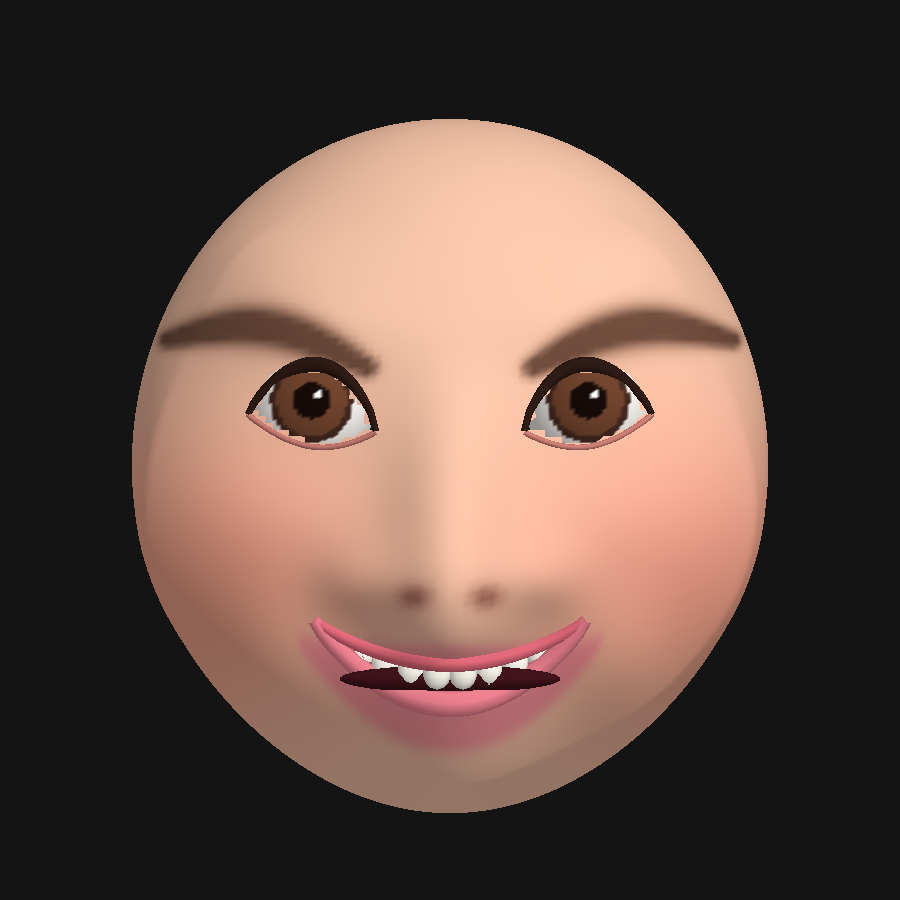
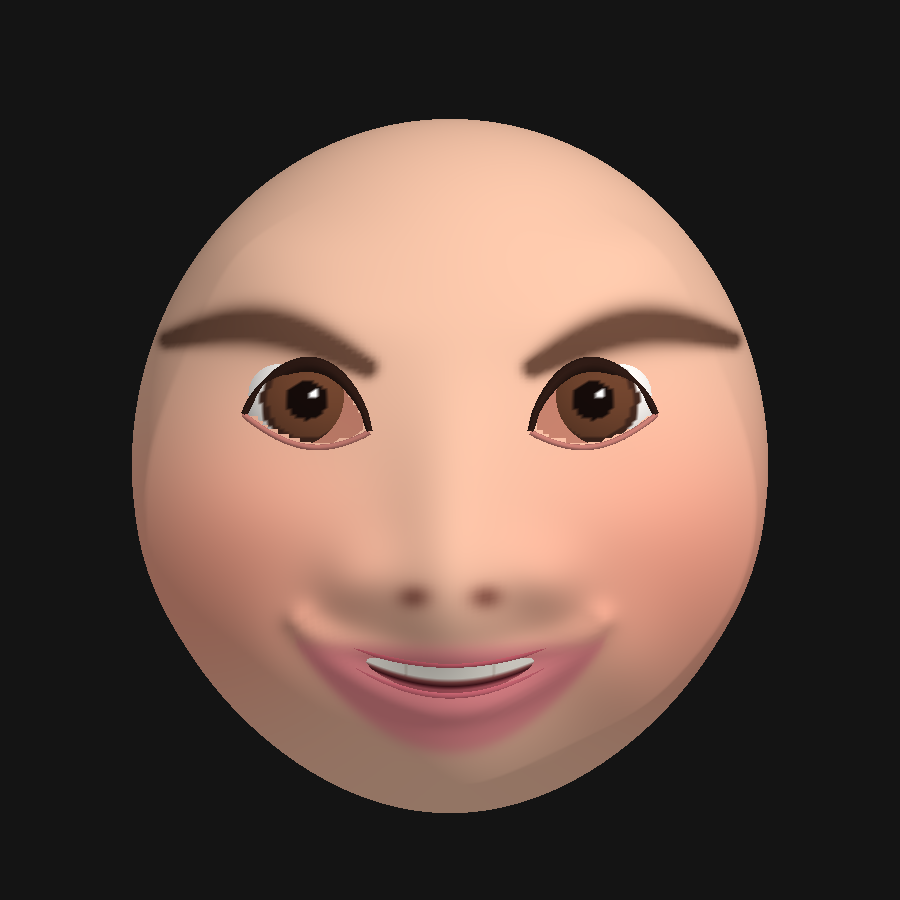
Karma stage 4: head v2 fixes (eye holes, continuous teeth, surface lips), README correction, experiment

diff --git a/assets/3d/karma/stage4_head_route_2026-11-24/v2/build2.py b/assets/3d/karma/stage4_head_route_2026-11-24/v2/build2.py
@@ -1,20 +1,21 @@
 import numpy as np,sys
 import geo2 as G
 from geo2 import u,ey,EYE_Y,SKIN,tube,ellipsoid
-P,F,d=G.head()
+P,F,d=G.head(260,340)
 zf=G.zf_factory(P,d)
+EI,EO=0.29,0.745
 sn=lambda t,p=0.8: np.sin(np.pi*np.clip(t,0,1))**p
 def eye_curves(s,n=24):
-    t=np.linspace(0,1,n);x=s*(0.267+0.463*t)*u
+    t=np.linspace(0,1,n);x=s*(EI+(EO-EI)*t)*u
     base=EYE_Y-0.062*u*(1-t)
     up=base+0.215*u*sn(t**0.85,0.75);lo=base-0.085*u*sn(t,0.9)
     return t,x,up,lo
 def inside_eye(x,y,s):
-    t=(s*x-0.267*u)/(0.463*u);ok=(t>0.02)&(t<0.98)
+    t=(s*x-EI*u)/((EO-EI)*u);ok=(t>0.02)&(t<0.98)
     base=EYE_Y-0.062*u*(1-t);tt=np.clip(t,0,1)
     up=base+0.215*u*sn(tt**0.85,0.75);lo=base-0.085*u*sn(tt,0.9)
     return ok&(y<up-0.0006)&(y>lo+0.0006)
-L=0.49*u;COR=ey(0.74)
+L=0.54*u;COR=ey(0.74)
 mtop=lambda t: COR+(ey(0.90)-COR)*sn(t,0.8)
 mbot=lambda t: COR+(ey(1.01)-COR)*sn(t,0.8)
 def inside_mouth(x,y):
@@ -49,15 +50,15 @@ for s in(-1,1):
 keep=np.ones(len(F),bool)
 ins=np.zeros(len(P),bool)
 for s in(-1,1): ins|=inside_eye(x,y,s)&front
-ins|=inside_mouth(x,y)&front
 keep=~ins[F].all(1)
 Fk=F[keep]
 parts=[dict(V=P,F=Fk,col=col)]
+C0=np.array([0,0.815,0]);parts.append(dict(V=C0+(P-C0)*0.94,F=F[ins[F].any(1)],col=np.tile([196,128,108.],(len(P),1))))
 Zf=lambda xx,yy: float(zf(xx,yy)[0])
 # eyes
 for s in(-1,1):
-    ex=s*0.50*u;eyc=EYE_Y+0.03*u;r=0.0195
-    D,Fe=G.sphere(72,96);V=D*r+np.array([ex,eyc,Zf(ex,eyc)-r+0.0008])
+    ex=s*(EI+EO)/2*u;eyc=EYE_Y+0.03*u;r=0.0205
+    D,Fe=G.sphere(72,96);V=D*r*np.array([1.06,1.0,1.0])+np.array([ex,eyc,Zf(ex,eyc)-r+0.0008])
     ax=np.array([0,np.sin(0.10),np.cos(0.10)]);ang=np.arccos(np.clip(D@ax,-1,1))
     ec=np.tile([248,244,240.],(len(D),1));ec[ang<0.72]=[70,42,32];ec[ang<0.60]=[112,68,46];ec[ang<0.30]=[22,12,10]
     hl=np.linalg.norm(D[:,:2]-np.array([0.10,0.18]),axis=1)<0.07;ec[hl&(D[:,2]>0.9)]=[255,255,255]
@@ -66,16 +67,34 @@ for s in(-1,1):
     pu=np.array([[a,b,Zf(a,b)+0.0006] for a,b in zip(xx,up)]);pl=np.array([[a,b,Zf(a,b)+0.0004] for a,b in zip(xx,lo)])
     rr=0.0010+0.0014*np.sin(np.pi*t)
     parts.append(tube(pu,rr,(48,28,22)));parts.append(tube(pl,0.0009,(205,128,118)))
-# mouth
-t=np.linspace(0,1,40);mx=-L+2*L*t
-top=np.array([[a,mtop(b),Zf(a,mtop(b))+0.0008] for a,b in zip(mx,t)]);bot=np.array([[a,mbot(b),Zf(a,mbot(b))+0.0008] for a,b in zip(mx,t)])
-parts.append(tube(top,0.0016+0.0010*sn(t),(226,106,122)))
-botl=bot.copy();botl[:,1]-=0.0030*sn(t);parts.append(tube(botl,0.0020+0.0022*sn(t),(238,130,144)))
-zc=Zf(0,ey(0.95))
-parts.append(ellipsoid((0,ey(0.955),zc-0.010),(0.40*u,0.050*u,0.006),(66,20,28)))
-for k in range(8):
-    tx=0.5+(k-3.5)*0.095;xx=-L+2*L*tx
-    yy=mtop(tx)-0.0030
-    parts.append(ellipsoid((xx,yy,Zf(xx,yy)-0.0030),(0.0044,0.0052,0.0030),(250,246,236),8,12))
+# mouth: lips are surface displacement, teeth a continuous ribbon
+def curve_bump(path,h,sig):
+    Nn=(P-np.array([0,0.815,0]));Nn/=np.linalg.norm(Nn,axis=1)[:,None]
+    wm=np.zeros(len(P))
+    for (px,py) in path:
+        wm=np.maximum(wm,np.exp(-(((x-px)**2+(y-py)**2)/(2*sig**2)))*front)
+    P[:]+=Nn*(h*wm)[:,None]
+t=np.linspace(0,1,60);mx=-L+2*L*t
+curve_bump([(a,mtop(b_)+0.0018*sn(b_)) for a,b_ in zip(mx,t)],0.0012,0.0026)
+curve_bump([(a,mbot(b_)-0.0040*sn(b_)) for a,b_ in zip(mx,t)],0.0022,0.0036)
+parts[0]['V']=P
+nt=120;nv=9;Vt=[];Ct=[];Ft=[]
+tt=np.linspace(0.0,1.0,nt)
+for tv in tt:
+    xx=-L+2*L*tv
+    for vi in range(nv):
+        v=vi/(nv-1);yy=mtop(tv)+(mbot(tv)-mtop(tv))*v
+        Vt.append([xx,yy,Zf(xx,yy)+0.0014])
+        gap=abs(np.sin(np.pi*(tv-0.06)/0.88*9))<0.06 and 0.08<tv<0.92
+        if v<0.58: c=(223,213,201) if gap else (250,246,236)
+        elif v<0.66: c=(150,80,80)
+        else: c=(78,24,32) if v<0.85 else (200,98,110)
+        Ct.append(c)
+for k in range(nt-1):
+    for m_ in range(nv-1):
+        a=k*nv+m_;b2=(k+1)*nv+m_;Ft+=[[a,a+1,b2],[a+1,b2+1,b2]]
+parts.append(dict(V=np.array(Vt),F=np.array(Ft),col=np.array(Ct,float),two=True))
+rimu=np.array([[a,mtop(b_),Zf(a,mtop(b_))+0.0004] for a,b_ in zip(mx,t)]);riml=np.array([[a,mbot(b_),Zf(a,mbot(b_))+0.0004] for a,b_ in zip(mx,t)])
+parts.append(tube(rimu,0.0013,(206,98,112),6));parts.append(tube(riml,0.0015,(214,108,122),6))
 import pickle;pickle.dump(parts,open('parts_v2.pkl','wb'))
 print(len(P),len(Fk))

diff --git a/assets/3d/karma/stage4_head_route_2026-11-24/v2/geo2.py b/assets/3d/karma/stage4_head_route_2026-11-24/v2/geo2.py
@@ -1,5 +1,5 @@
 import numpy as np
-from scipy.interpolate import griddata
+from scipy.interpolate import griddata,LinearNDInterpolator
 from geo import sphere,u,EYE_Y
 ey=lambda k: EYE_Y-k*u
 SKIN=np.array([246,196,168.])
@@ -14,8 +14,8 @@ def head(nl=170,nw=230):
     def bump(cx,cy_,sx,h,sy=None):
         sy=sy or sx
         w=gauss2(P,cx,cy_,sx,sy)*front;P[:]=P+N*(h*w)[:,None]
-    bump(0,ey(0.62),0.014,0.022)          # nose tip
-    bump(0,ey(0.40),0.011,0.013,0.025)     # bridge
+    bump(0,ey(0.62),0.013,0.014)          # nose tip
+    bump(0,ey(0.40),0.011,0.007,0.025)     # bridge
     for s in(-1,1):
         bump(s*0.30*u,ey(0.55),0.008,0.006) # nostril wings
         bump(s*0.84*u,ey(0.50),0.040,0.014,0.036) # round cheeks
@@ -31,7 +31,8 @@ def head(nl=170,nw=230):
 def zf_factory(P,d):
     m=d[:,2]>0.1
     pts=P[m][:,:2];z=P[m][:,2]
-    return lambda x,y: griddata(pts,z,np.stack([np.atleast_1d(x),np.atleast_1d(y)],-1),method='linear')
+    f=LinearNDInterpolator(pts,z)
+    return lambda x,y: f(np.stack([np.atleast_1d(x),np.atleast_1d(y)],-1))
 def tube(path,r,col,ns=8):
     path=np.asarray(path);n=len(path)
     T=np.gradient(path,axis=0);T/=np.linalg.norm(T,axis=1)[:,None]+1e-12

diff --git a/assets/3d/karma/stage4_head_route_2026-11-24/v2/r2.py b/assets/3d/karma/stage4_head_route_2026-11-24/v2/r2.py
@@ -3,6 +3,6 @@ from PIL import Image
 parts=pickle.load(open('parts_v2.pkl','rb'))
 S=int(sys.argv[1]) if len(sys.argv)>1 else 900
 rend.render(parts,S=S,R=0.14,cy=0.82).save('head_front_v2.png')
-for nm,y in(('q34',0.6),('side',1.45)): rend.render(parts,S=500,R=0.14,cy=0.82,yaw=y).save(f'head_{nm}_v2.png')
+for nm,y in(('q34',0.6),('side',1.5708)): rend.render(parts,S=500,R=0.14,cy=0.82,yaw=y).save(f'head_{nm}_v2.png')
 a=[Image.open(f'head_{n}_v2.png').resize((420,420)) for n in('front','q34','side')]
 c=Image.new('RGB',(1260,420));[c.paste(x,(i*420,0)) for i,x in enumerate(a)];c.save('head_views_v2.png')

diff --git a/assets/3d/karma/stage4_head_route_2026-11-24/v2/README.md b/assets/3d/karma/stage4_head_route_2026-11-24/v2/README.md
@@ -1,5 +1,6 @@
 # Head v2 (EXPERIMENT, not final, likeness NOT verified)
-Dense geometric head (39k verts): almond eye openings cut into the skin with upper and lower lid rims, 3D eyeballs behind them (iris partly under the upper lid), mouth opening cut into the skin with lip tubes, teeth row and cavity, geometry nose, round cheeks, small chin. Brows and blush are vertex colour. No planar photo/paint texture.
-Convergence check (metric_v2_summary.txt): MediaPipe run on the rendered front view and on the front reference, both levelled and scaled by pupil distance. v1 to v2 mean landmark error went 0.049 to 0.041 pupil-distances; face width, eye width, nose width, chin depth, cheek and eye spacing match within about 5 percent. CAVEAT: MediaPipe fits a template to stylized renders, so this checks layout consistency only. It does not measure likeness.
-Known defects: side profile is not trustworthy (side and back depth are guesses): lips/nose protrude oddly, no ears, no hair yet, expression slightly stiff, shading flat, not attached to the body or skinned. Reference-photo comparison images are kept local and are not in the repo.
-Run: python3 build2.py && python3 r2.py (needs numpy, scipy; metric.py needs mediapipe, opencv and the local reference).
+Dense geometric head (88k verts): almond eye openings with upper/lower lid rims over a skin-coloured inner layer, 3D eyeballs behind them (iris partly under the upper lid), nose, round cheeks, small chin. Mouth: lips are surface displacement; the opening is a smooth patch built from the exact smile curves with one continuous upper tooth strip (tooth gaps are colour lines) and dark interior, edged by thin rim tubes that follow the surface. Brows and blush are vertex colour. No photo or paint texture.
+Correction: an earlier version of this README said the layout matched within about 5 percent. That was wrong. Summary numbers are in metric_v2_summary.txt (MediaPipe on the render vs the front reference, levelled, in pupil-distance units; mean error about 0.04). Eye width, eye spacing, face width, chin depth and nose width are close; mouth width is 1.00 vs 0.95. This only checks layout consistency, MediaPipe fits a template to cartoon renders, and it says nothing about likeness.
+GUESSED (not visible in the references): all side and back depth, skull shape behind the face, nose projection, chin and jaw profile. Profile and 3/4 views are therefore unverified.
+Known defects: no hair, no ears, nose has too little volume, lips too wide and pale, brows too thick and high, eyes slightly round, shading flat. Not attached to the body, not skinned. Reference-photo comparison images are kept local and are not in the repo.
+Run: python3 build2.py && python3 r2.py
